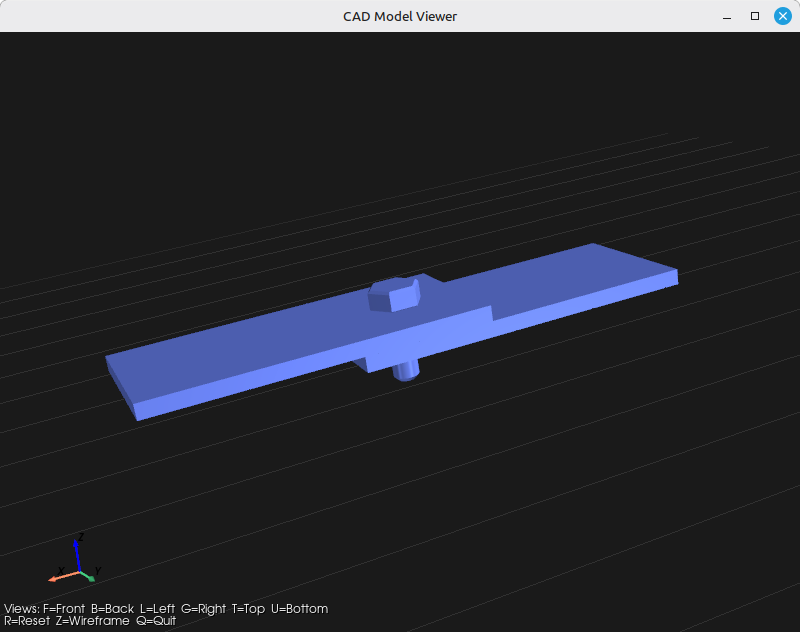
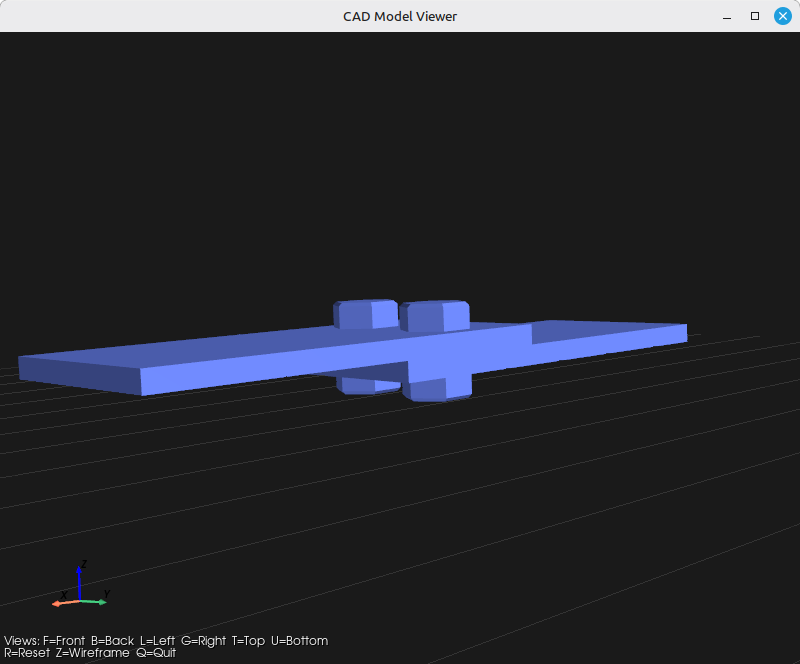
Document thick_tube and extruded hex8 meshing in README
Add the thick_tube part to the GUI model examples, document structured
extruded hex8 meshing (cap-face sweep via mesh.extrusion / numLayers,
inverted-element rejection) as a feature bullet and a mesh-config YAML
example, and refresh the mesh-settings and extruded-mesh screenshots.

diff --git a/README.md b/README.md
@@ -33,6 +33,11 @@ two sides interoperate.
   `hex20`/`hex27`), optional curvature-driven refinement via `relativeSagTolerance`
   (max sag/radius on curved faces), and export to the `MeshData` wire format
   (XML or JSON), legacy mesh JSON, or native Gmsh `.msh`.
+- **Structured extruded hex8.** For prismatic parts, name a planar cap face and
+  the mesher quad-meshes it and sweeps that mesh through the part thickness in
+  `numLayers` explicit layers, yielding a clean all-hex mesh with boundary
+  edges/faces and entity containers classified onto the original solid. Hex
+  meshes are validated and rejected if any element is inverted.
 - **MeshData export.** Volumetric meshes serialize to a versioned `MeshData`
   envelope (one `MeshFragment` per Part, boundary edges/faces, and entity
   containers) consumed by the sibling C# `RSA.Mesh` application.
@@ -77,7 +82,9 @@ cd app
 python cad_app.py
 ```
 
-Pick a model from the dropdown (e.g. `box`, `hex_bolt`, `bracket`), set its
+Pick a model from the dropdown (e.g. `box`, `hex_bolt`, `bracket`, or
+`thick_tube` — a hollow tube that can be restricted to an angular sector via
+`sweep_angle_deg` for modeling a quarter under symmetric loads), set its
 parameters, and use **Model → View** to render it or **Model → Export** to
 write a STEP or `CADModelData` JSON file.
 
@@ -141,6 +148,18 @@ output:
   format: xml                   # xml, json (MeshData formats), or msh
 ```
 
+For a prismatic part, add a `mesh.extrusion` block to build a structured
+all-hex mesh swept from a cap face (requires `elementType: hex8`):
+
+```yaml
+mesh:
+  elementType: hex8
+  elementSize: 5.0
+  extrusion:
+    capFace: F4                 # PersistentID of the planar cap face to sweep
+    numLayers: 8                # hex layers through the thickness
+```
+
 ### Visualize a model or mesh
 
 ```bash
@@ -175,10 +194,17 @@ The PyVista viewer used by **Model → View** and `visualize.py`.
 
 **Mesh → Create Mesh** generates a volumetric mesh via Gmsh and displays it
 in the same viewer; statistics are available from **Mesh → Show Stats**.
-
+#### Mesh Settings
 ![Mesh settings dialog](docs/screenshots/Create-Mesh-Settings.png)
+#### Mesh Settings with Extrusion
+![Mesh settings with extrusion dialog](docs/screenshots/Create-Mesh-Settings-Extrusion.png)
+#### Mesh of Parametric Gear
 ![Volumetric mesh of a parametric gear](docs/screenshots/Mesh-Parametric-Gear.png)
+#### Mesh of Cylinder with Holes
 ![Volumetric mesh of a cylinder-with-holes](docs/screenshots/Mesh-cylinder-with-holes.png)
+#### Extruded Mesh of Thick Tube
+![Extruded mesh of a thick tube](docs/screenshots/Extruded-Mesh-Thick-Tube.png)
+#### Mesh Statistics
 ![Mesh statistics dialog](docs/screenshots/Mesh-Statistics.png)
 
 ## Project layout